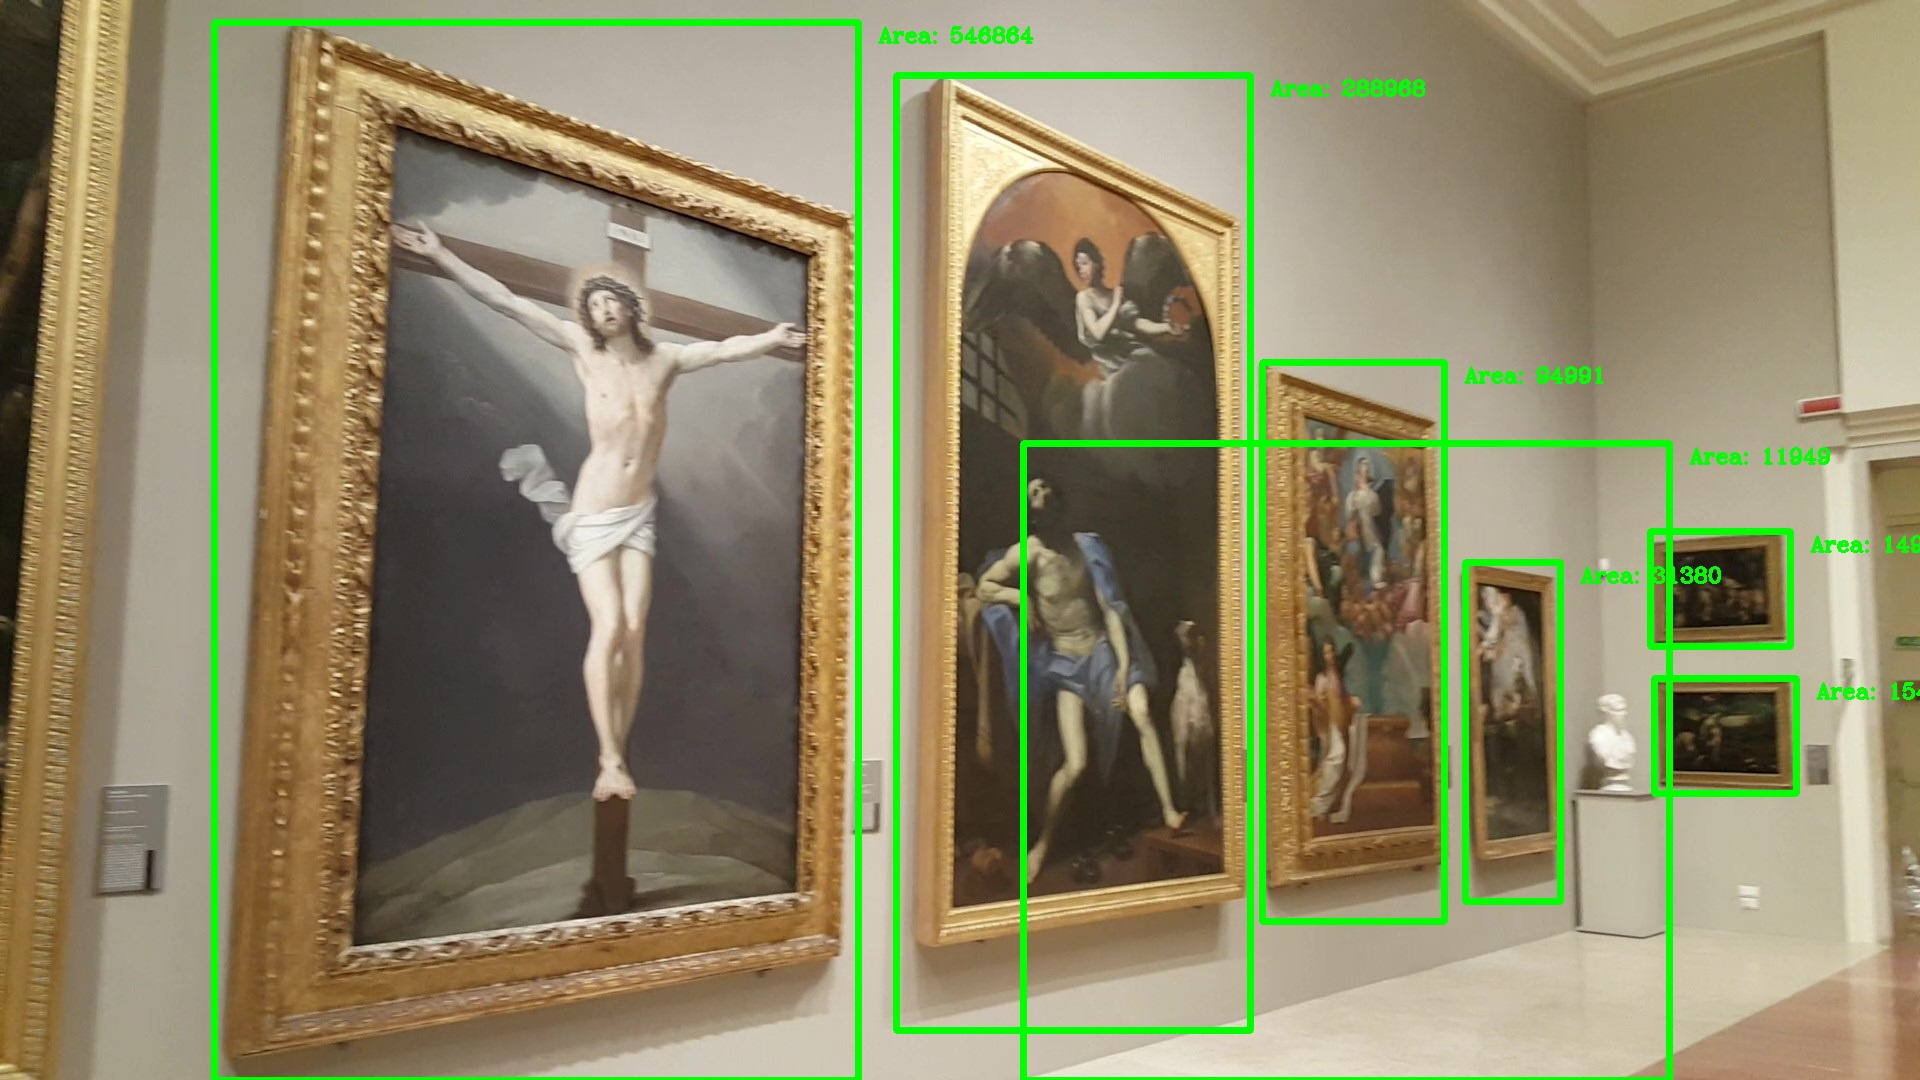
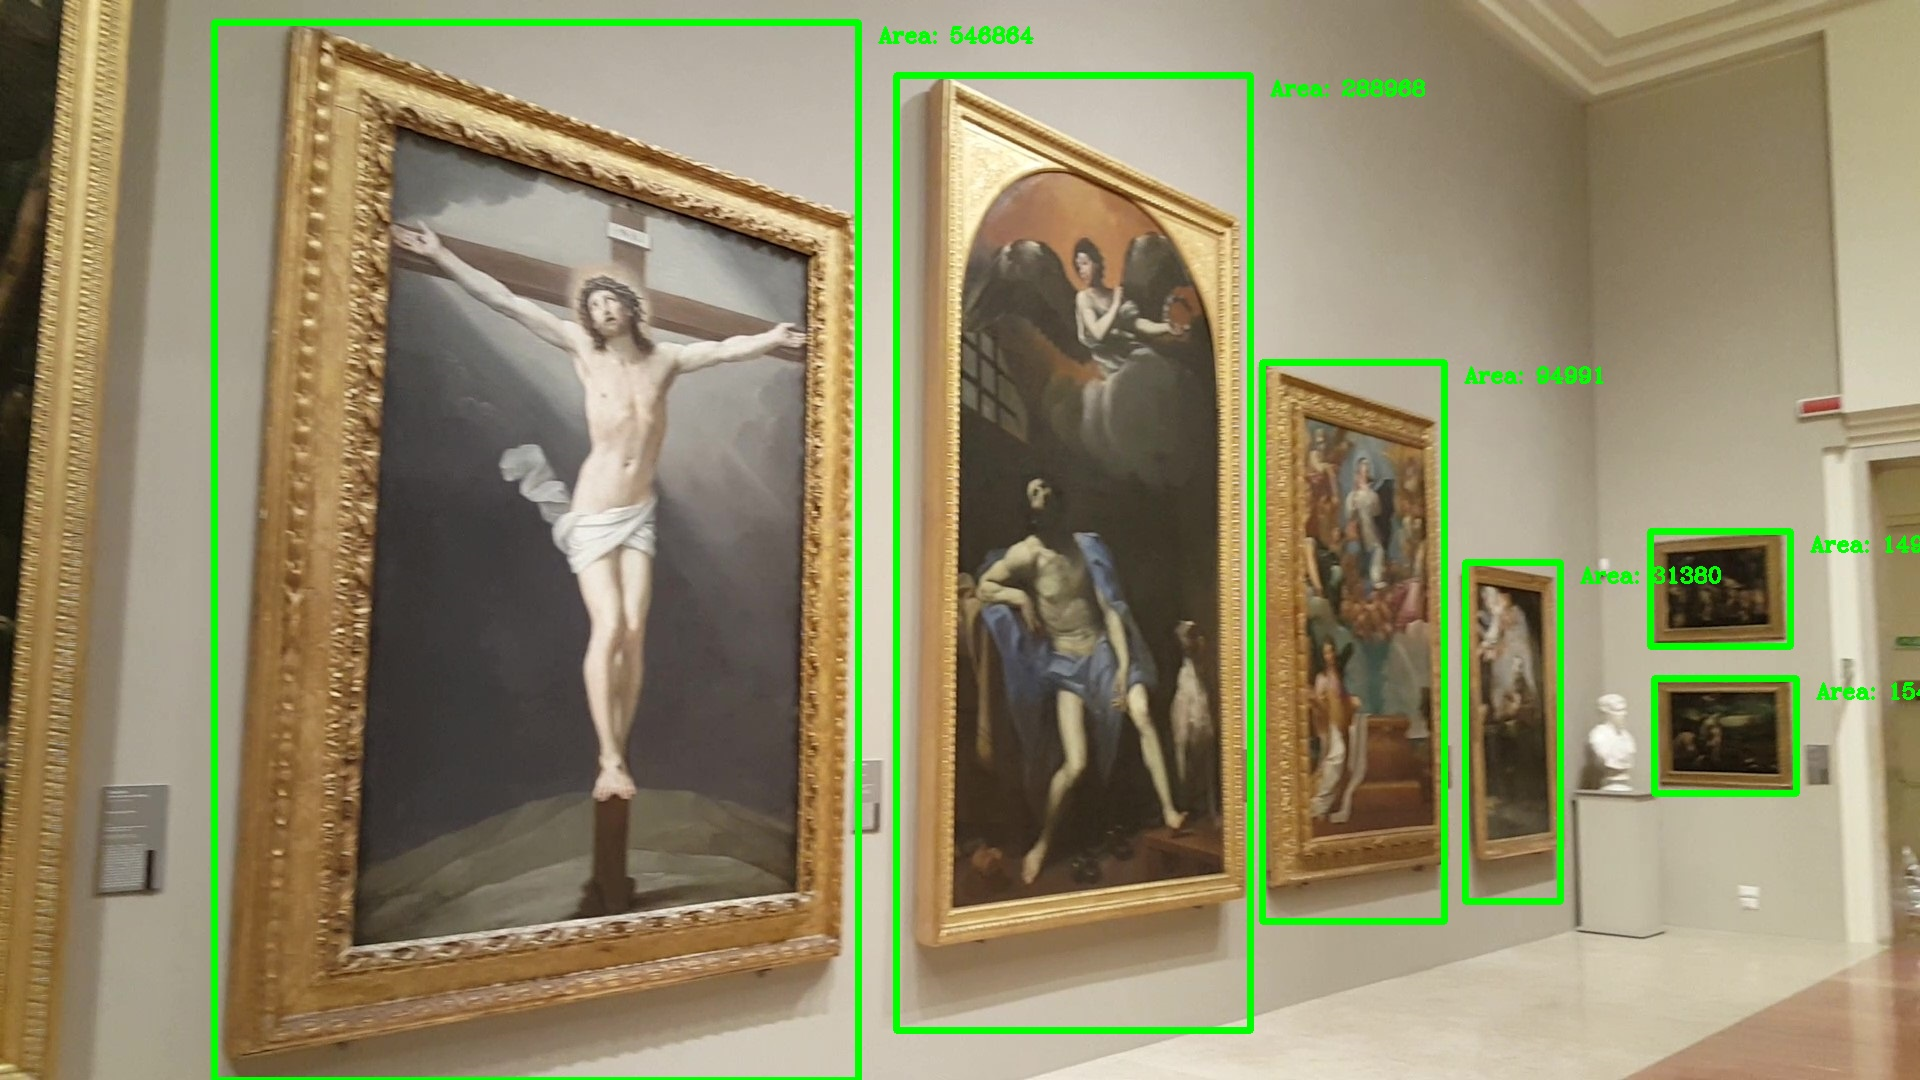
aggiunto filtro su % area di approx rispetto a bbox

Changed region(s): [[0.5312, 0.3972, 0.9688, 1.0]]

diff --git a/detection/canny_hough/painting_detection.py b/detection/canny_hough/painting_detection.py
@@ -14,12 +14,12 @@ def get_contours(frame):
     for cnt in contours:
         area = cv2.contourArea(cnt)
         area_min = 6000
-        if area > area_min:
-            peri = cv2.arcLength(cnt, True)
-            approx = cv2.approxPolyDP(cnt, 0.05 * peri, True)
+        peri = cv2.arcLength(cnt, True)
+        approx = cv2.approxPolyDP(cnt, 0.05 * peri, True)
+        x, y, w, h = cv2.boundingRect(approx)
+        if area > area_min and area > 0.5*(w*h):
             print(len(approx))
             if len(approx) == 4:
-                x, y, w, h = cv2.boundingRect(approx)
                 bbox = {'x': x, 'y': y, 'height': h, 'width': w, 'approx': approx}
                 bbox_list.append(bbox)
                 cv2.rectangle(img_cnts, (x, y), (x + w, y + h), (0, 255, 0), 5)
